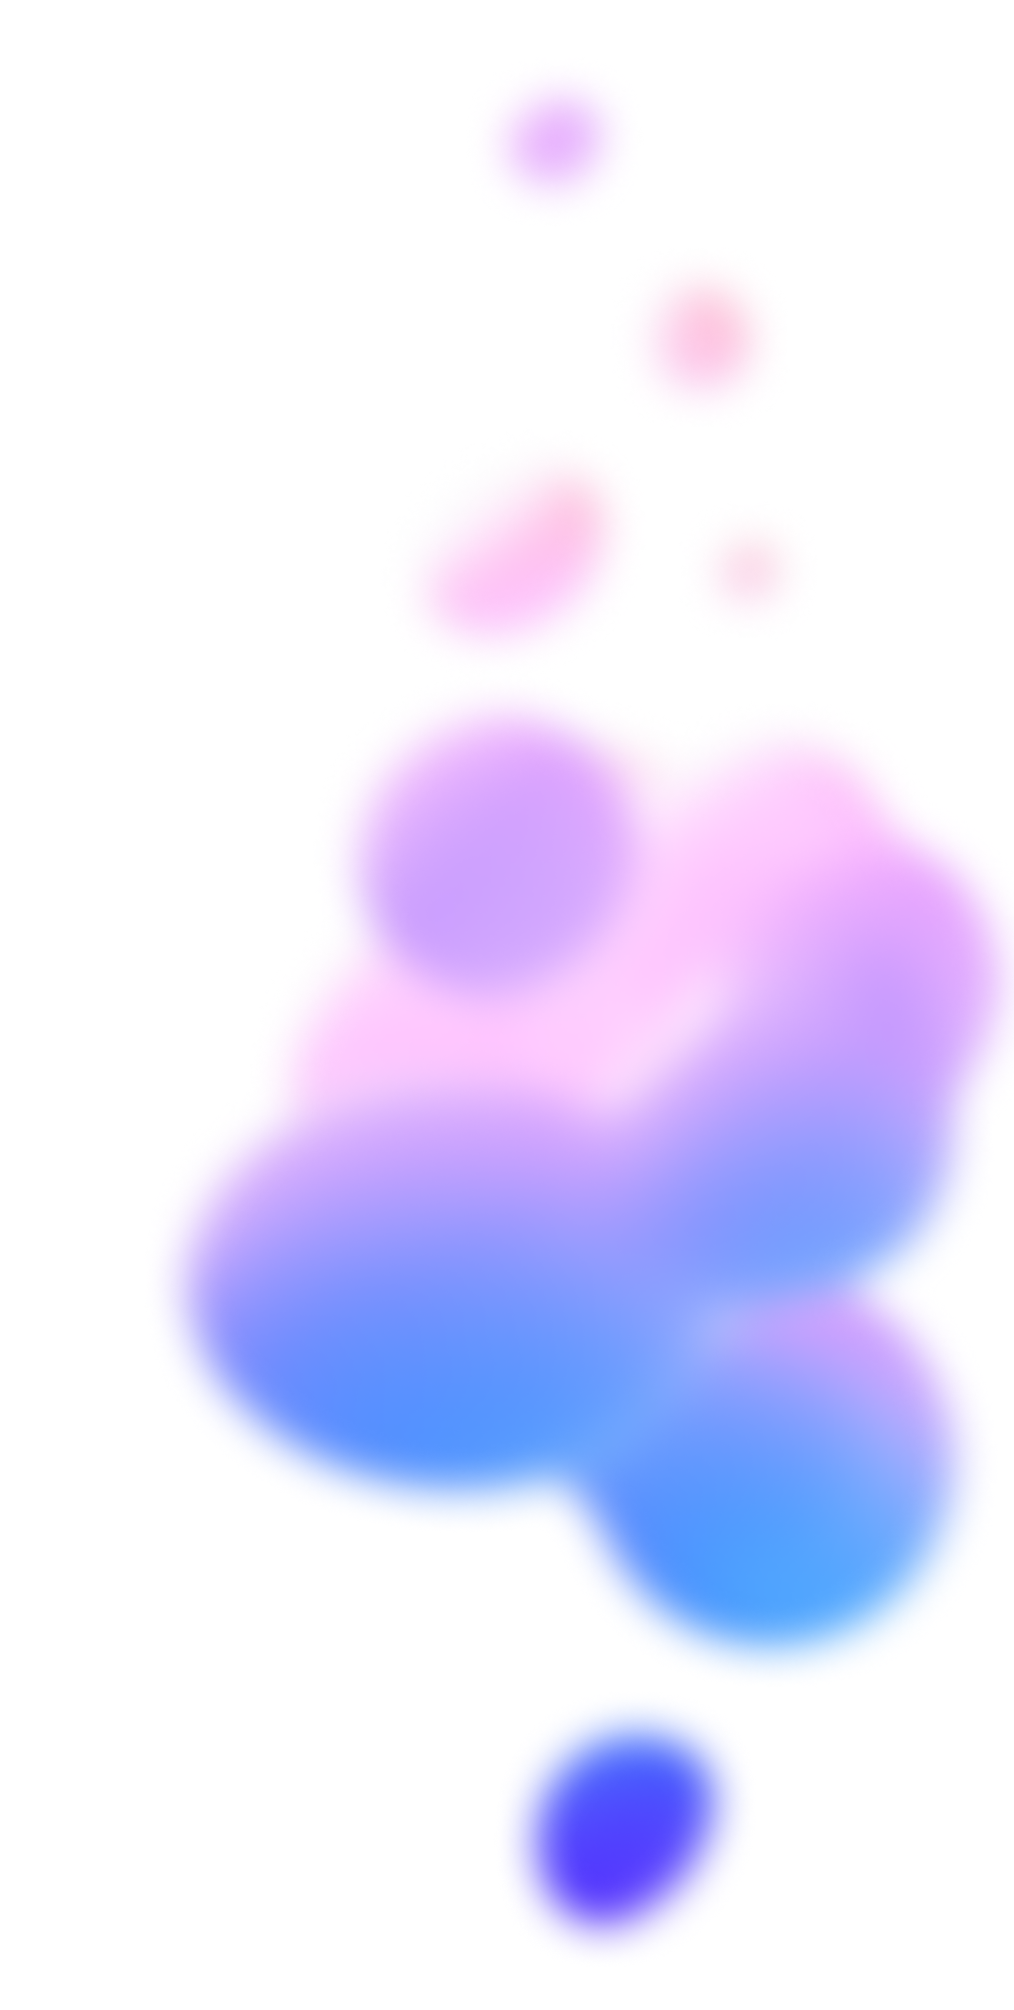
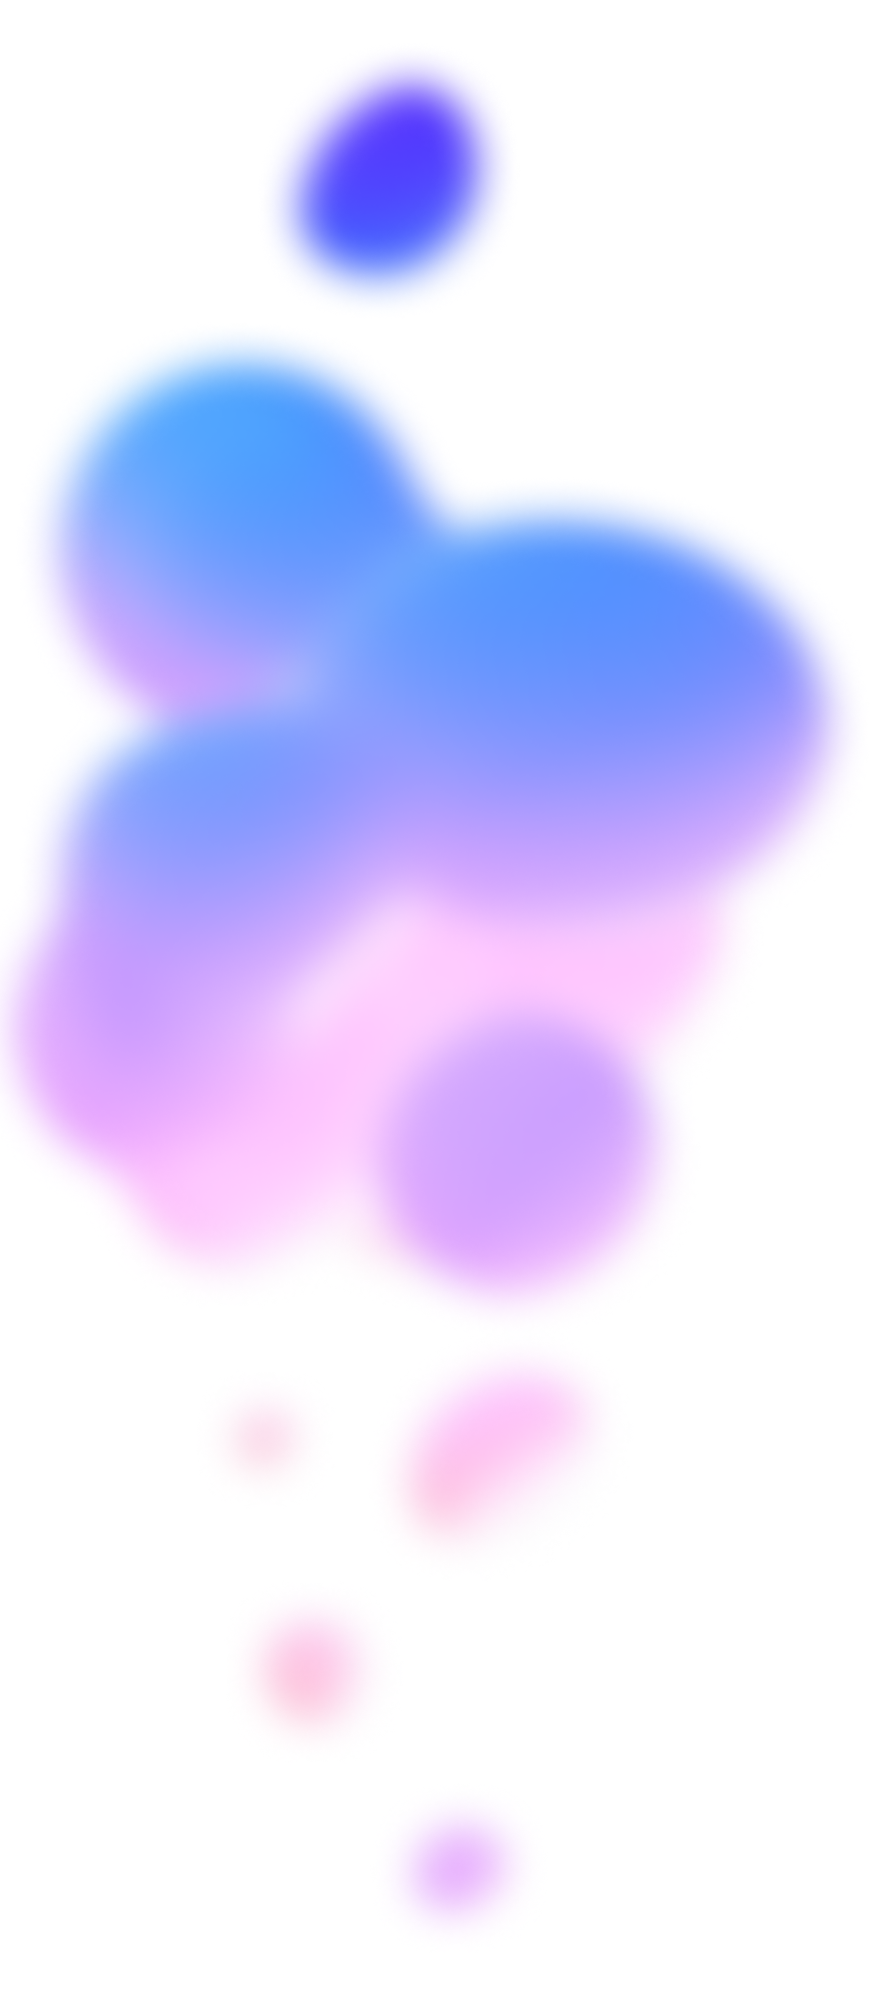
Products page has its bubbles now

diff --git a/components/products/ProductsContent.js b/components/products/ProductsContent.js
@@ -1,14 +1,8 @@
 "use client";
 
-import { AnimatePresence, motion } from "framer-motion";
 import Image from "next/image";
-import { productsData } from "../../data";
-import top_bubble from "../../public/assets/products/top_bubble.png";
-import left_bubble from "../../public/assets/products/left_bubble.png";
-import right_bubble from "../../public/assets/products/right_bubble.png";
-// import herobbImg from "../../public/assets/home/hero_section_bb.png";
-import { Button, ProductRow } from "@/components";
-import HeaderDivider from "../HeaderDivider";
+import { AnimatePresence, motion } from "framer-motion";
+import { ProductRow } from "@/components";
 
 import product_img1 from "../../public/imgs/products/product_img1.png";
 import product_img2 from "../../public/imgs/products/product_img2.png";
@@ -20,9 +14,45 @@ import product_img7 from "../../public/imgs/products/product_img7.png";
 import product_img8 from "../../public/imgs/products/product_img8.png";
 import product_img9 from "../../public/imgs/products/product_img9.png";
 
+import left_bubble from "../../public/assets/products/left_bubble.png";
+import right_bubble from "../../public/assets/products/right_bubble.png";
+
 const ProductsContent = () => {
   return (
     <section className="w-full h-auto flex flex-col relative ">
+      <Image
+        src={left_bubble}
+        alt="Left Bubble"
+        width={360}
+        height={640}
+        className="absolute top-[5.5%] sm:top-[3.85%] sm3:top-[3.3%] lg:top-[15%] left-[-10%] sm:left-[-10%] sm3:left-[-6%] md:top-[2%] md:left-[-4%] lg:left-0 w-auto h-[450px] object-fill z-10"
+        loading="lazy"
+      />
+      <Image
+        src={right_bubble}
+        alt="right Bubble"
+        width={360}
+        height={640}
+        className="absolute top-[31.5%] sm:top-[30%] sm3:top-[34%] 2xl:top-[37%] right-[-15%] sm3:right-[-6%] lg:top-[40%] lg:right-0 w-auto h-[550px] object-fill z-10 md:transform-origin-top-left md:rotate-180 "
+        loading="lazy"
+      />
+      <Image
+        src={left_bubble}
+        alt="Left Bubble"
+        width={360}
+        height={640}
+        className="absolute top-[56%] md:top-[66%] xl2:top-[64%] left-[-7%] md:left-[-3%] w-auto h-[550px] object-fill z-10"
+        loading="lazy"
+      />
+      <Image
+        src={right_bubble}
+        alt="right Bubble"
+        width={360}
+        height={640}
+        className="absolute bottom-[17.5%] sm:bottom-[19.3%] sm3:bottom-[21%] sm2:bottom-[23%] md:hidden right-[-15%] sm3:right-[-6%] lg:bottom-[40%] w-auto h-[550px] object-fill z-10 md:transform-origin-bottom-left md:rotate-180 "
+        loading="lazy"
+      />
+
       <section className="content__container w-full z-20">
         <section className="flex flex-col flex-wrap items-start justify-start py-24 gap-16 ">
           <ProductRow

diff --git a/components/products/ProductsHeroSection.js b/components/products/ProductsHeroSection.js
@@ -3,9 +3,7 @@
 import { AnimatePresence, motion } from "framer-motion";
 import Image from "next/image";
 
-import top_bubble from "../../public/assets/products/top_bubble.png";
 import herobbImg from "../../public/assets/home/hero_section_bb.png";
-import { Button } from "@/components";
 import HeaderDivider from "../HeaderDivider";
 
 const ProductsHeroSection = () => {
